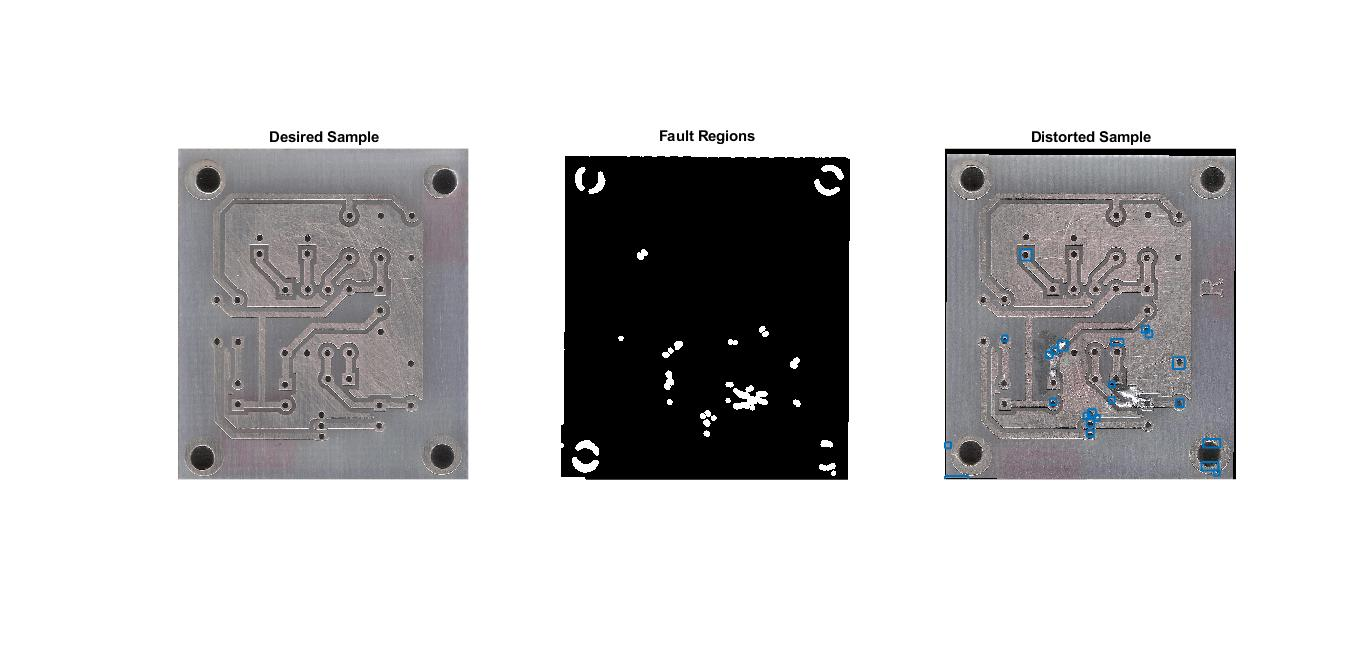
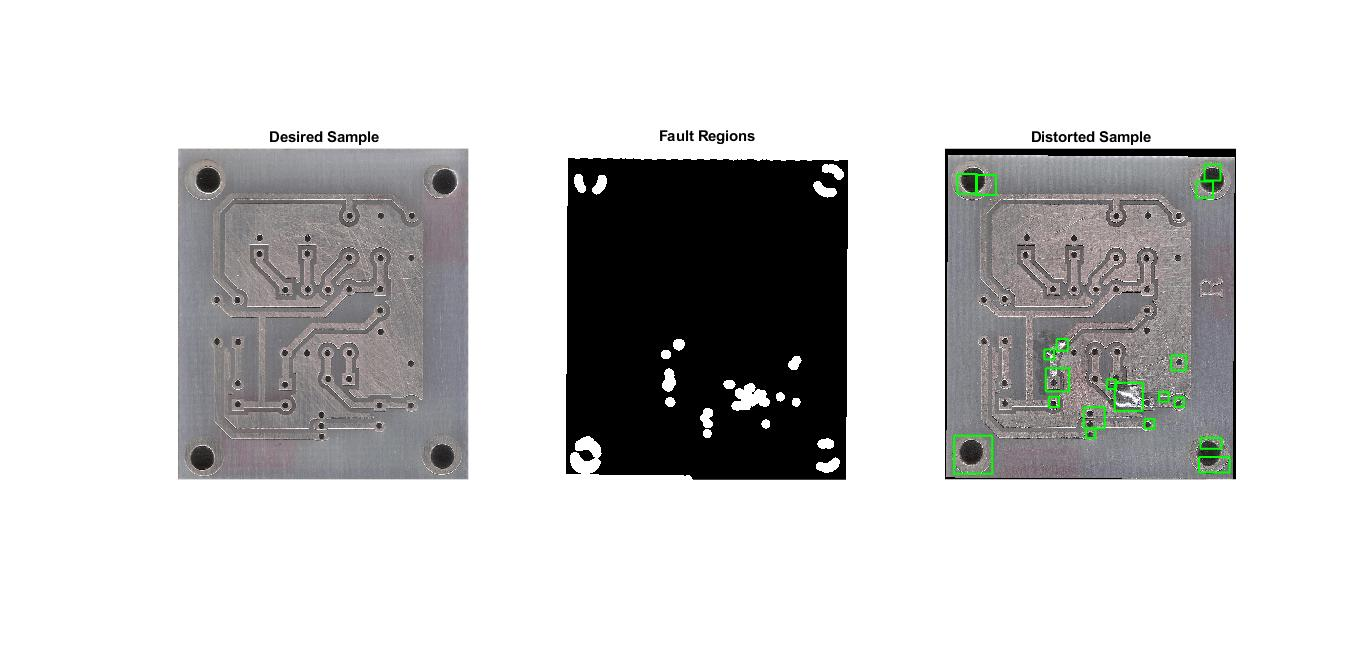
minor change in results

diff --git a/PCB_prj.m b/PCB_prj.m
@@ -72,7 +72,7 @@ hblob = vision.BlobAnalysis(...
 % Use morphological Dilation and Opening to remove small region and make
 % connected region for Blob analysis
 SE1 = strel('disk', 5, 0);
-SE2 = strel('disk', 25, 0);
+SE2 = strel('disk', 21, 0);
 segmentedObjects = imdilate(imopen((diff_img > 40),SE1),SE2);
 % Estimate the area and bounding box of the blobs.
 [~, bbox] = step(hblob, segmentedObjects);
